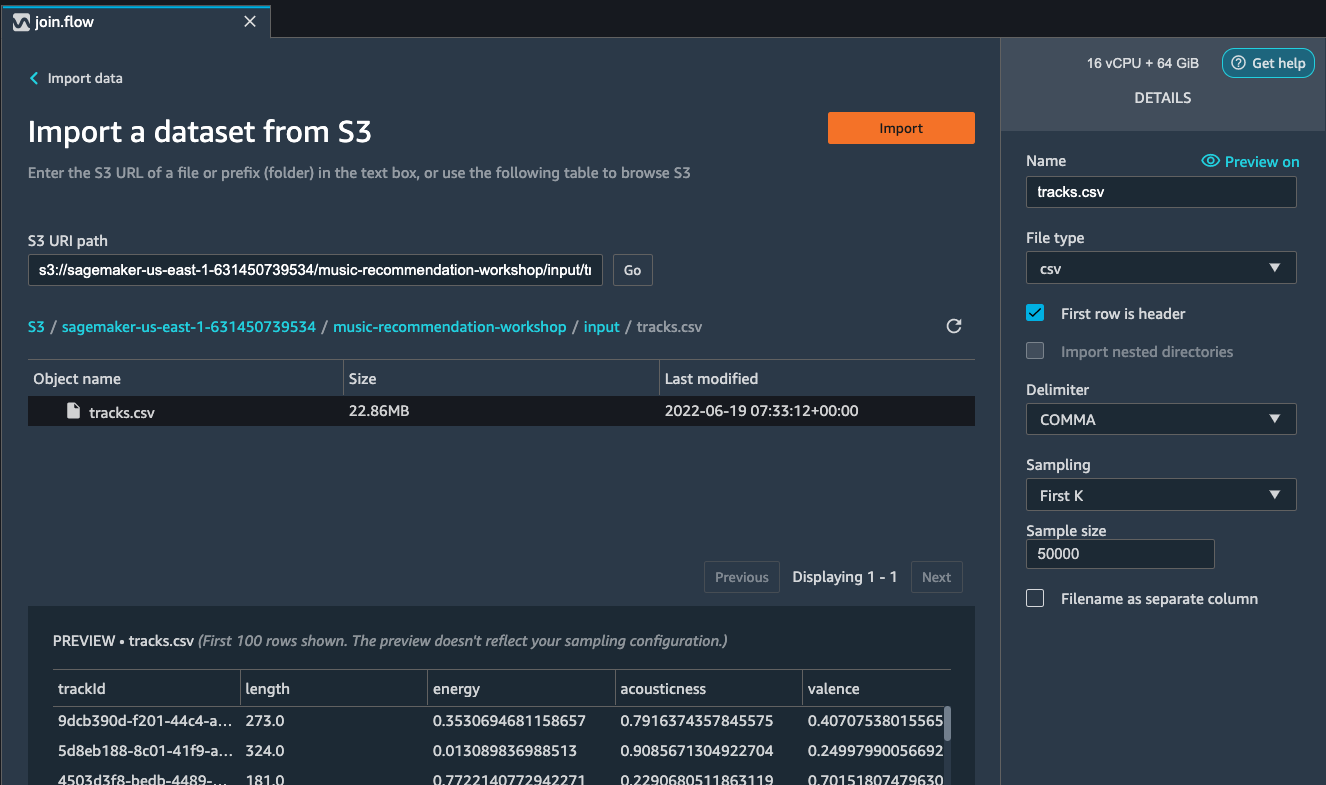
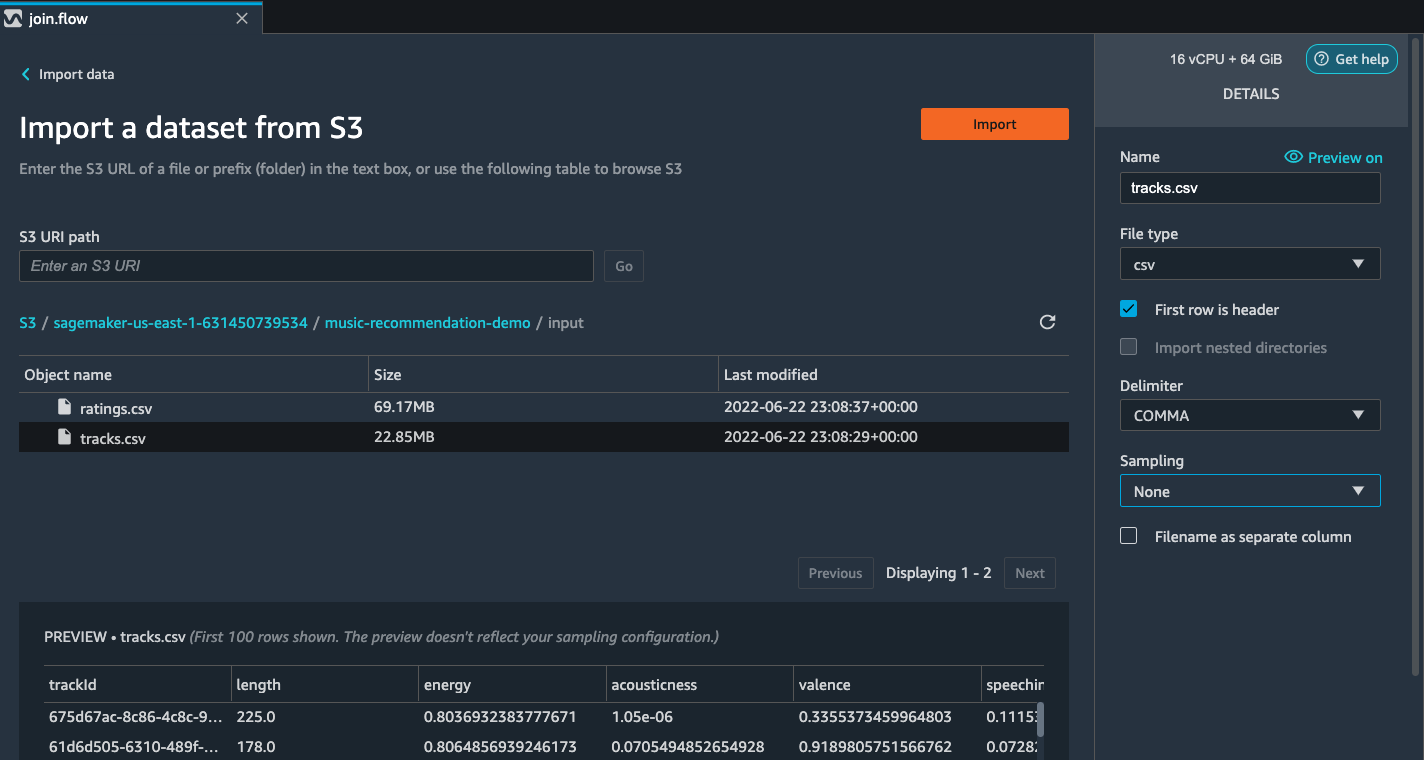
update ReadME and images based on comments

diff --git a/README.md b/README.md
@@ -7,7 +7,6 @@ With the rapid growth of the commercial music streaming services, more and more 
 
 Amazon SageMaker helps data scientists and developers to prepare, build, train, and deploy machine learning models quickly by bringing together a broad set of purpose-built capabilities. This example shows how SageMaker can accelerate machine learning development during the data preprocessing stage to help build the musical playlist tailored to a user's tastes.
 
-## Overview
 ### Dataset
 
 <div class="alert alert-block alert-info">
@@ -66,13 +65,12 @@ For this experiment the Data Source will be [Amazon S3](https://aws.amazon.com/s
 </div>
 
 ## Experiment steps
+
 ### Downloading the dataset, and notebooks
 
-* Ensure that you have a working Amazon SageMaker Studio environment and that it has been updated.
-* Open an Amazon SageMaker Studio terminal to import the datasets and notebook into Amazon SageMaker Studio
-    * Select **File / New / Terminal** from the menu at the top of Amazon SageMaker Studio.
-    ![image](./img/dl-image-1.png)
-* Next, download the dataset to SageMaker Studio notebook using the commands below.
+* Ensure that you have a working [Amazon SageMaker Studio](https://aws.amazon.com/sagemaker/studio/) environment and that it has been updated.
+
+* Follow the steps below to download the dataset.
     * Start with the `explore-dataset.ipynb` SageMaker Studio notebook.
         * Explore the dataset locally by running the cells in the notebook.
         * Upload the datasets (CSV files) to an S3 location for consumption by SageMaker Data Wrangler later.
@@ -93,6 +91,14 @@ For this experiment the Data Source will be [Amazon S3](https://aws.amazon.com/s
 
 * The data structure is defined in the next section. However, before we continue, note the path to the various datasets. Your paths will be different to the ones in the image below. Please copy these paths as you will use them later. An example of a path is s3://sagemaker-eu-west-1-112233445566/music-recommendation-demo/input/tracks.csv
 ![image](./img/dl-image-7.png)
+
+<div class="alert alert-block alert-info">
+   <b>Note</b>
+
+   Please also check the S3 location to make sure the files are uploaded successfully before moving to the next section.
+
+</div>
+    
 
 In the next section we will import the datasets into Data Wrangler via the SageMaker Studio User Interface (UI).
 
@@ -152,7 +158,8 @@ In the next section we will import the datasets into Data Wrangler via the SageM
     ![image](./img/image-17.png)
 
 ### Joining datasets - first join
-* Given, we have imported both the tracks and ratings CSV files in the beginning steps. Let us walk through on how to join these CSV files based on a common unique identifier column, *trackId*. 
+* Given, we have imported both the tracks and ratings CSV files in the beginning steps. Let us walk through on how to join these CSV files based on a common unique identifier column, *trackId*. Then we will perform some feature engineering to generate a new set of features that can help to enrich the trainig data.
+
 * Click on either the tracks or ratings transform block as shown in the image blow:
     * Here, we have selected tracks transform flow block and hit **Join**
     ![image](./img/image-18.png)
@@ -160,20 +167,20 @@ In the next section we will import the datasets into Data Wrangler via the SageM
     <div class="alert alert-block alert-info">
     <b>Note</b>
 
-    Files can also be concatenated similar to join operations
+        Files can also be concatenated similar to join operations
 
     </div>
     
     * Hit configure.
     ![image](./img/image-19.png)
-    * Here, choose a name for the resulting join file and choose the type of join and columns on to join.
+    * Here, choose a name for the resulting join file and choose the type of join and columns on to join (Please refer to the image below).
     ![image](./img/image-20.png)
     * Hit **Apply** (*Preview*) . You can see a preview of the Joined dataset as shown in the image below.
     ![image](./img/image-21.png)
     <div class="alert alert-block alert-info">
     <b>Note</b>
 
-    Depending on the version of SageMaker it might be Preview and not Add
+        Depending on the version of SageMaker it might be Preview and not Add
 
     </div>
     
@@ -181,7 +188,7 @@ In the next section we will import the datasets into Data Wrangler via the SageM
     * At the end of this step, the data flow looks as shown below.
     ![image](./img/image-22.png)
     
-    * Next step, let's see how to use Data Wrangler to add custom transform to perform more advanced feature engineering. Here, we want to use pyspark to calculate averages of 5-star ratings and use them as new features.
+    * Next step, let's see how to use Data Wrangler to add custom transform to perform more advanced feature engineering. Here, we want to use pyspark to calculate the average values of 5-star ratings for different columns and use them as new features.
     * Select on the jointrackid.csv block and click the + icon, under which click on Add transform.
     ![image](./img/image-23.png)
     * Click the custom transform at this step.
@@ -274,11 +281,13 @@ df = df.filter(F.col('Rating')==5).groupBy('userId').agg(*agg_obj)
 
 ![image](./img/image-44.png)
 
-* Follow the link to see the status of your job.
+* Follow the link to see the status of your job. This processing job takes around 5-10 mins.
 
 ![image](./img/image-45.png)
 
-* When the job is complete a new file will be available in your S3 bucket in the output folder.
+* When the job is complete the train and test output files will be available in the corresponding S3 output folders. You can find the output location from the processing job configurations.
+
+![image](./img/image-processing-job-output.png)
 
 ### *Other ways to export the transformations and analysis*
 
@@ -293,6 +302,8 @@ df = df.filter(F.col('Rating')==5).groupBy('userId').agg(*agg_obj)
     * Export as a SageMaker Pipeline notebook.
     * Export as a Python script.
     * Export to SageMaker Feature Store as a notebook.
+
+So far, we have demonstrated how to use Amazon SageMaker Data Wrangler to preprocess the data and perform feature engineering to prepare for the train and test data set. After the data preparation step, data scientists can work on training a machine learning model using these datasets. In the next section, we will show you how to directly start a training job with the train data by leveraging Amazon SageMaker Autopilot from the SageMaker Data Wrangler data flow.
 
 ### *Run Autopilot training directly from Data Wrangler flow* (**Optional**)
 * SageMaker Data Wragler now allow you to directly run an [Autopilot](https://docs.aws.amazon.com/sagemaker/latest/dg/autopilot-automate-model-development.html) job to automatically train a model. 
